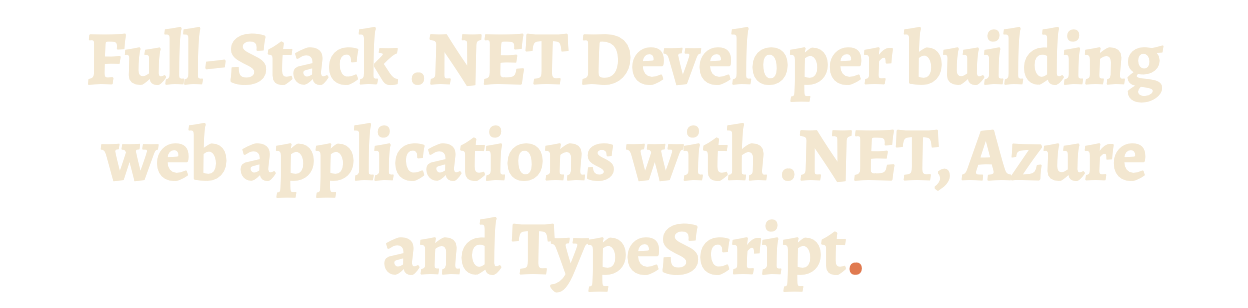
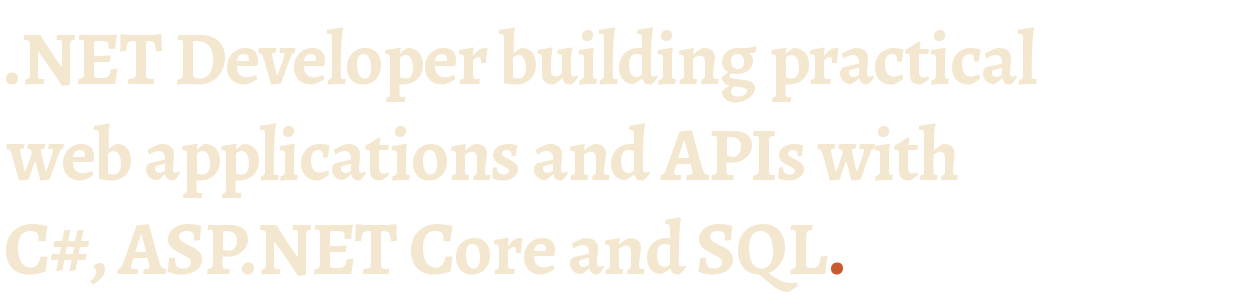
docs: restore the lead artwork with the .NET Developer title
Bring back the typographic lead that opened the profile before 4ee66fe,
rebuilt as a real SVG (Alegreya 700, same ink and terracotta full stop),
with only the title changed from Full-Stack .NET Developer to .NET
Developer. The PNG exports are refreshed to the same wording.

Changed region(s): [[0.0, 0.0877, 0.9375, 0.3506], [0.0, 0.4091, 0.9375, 0.6429], [0.0, 0.7013, 0.6875, 0.9643]]

diff --git a/README.md b/README.md
@@ -7,8 +7,10 @@
 
 [**Website**](https://danieldias.dev/en) · [**Blog**](https://danieldias.dev/en/blog) · [**LinkedIn**](https://www.linkedin.com/in/daniel-dias-504168113/) · [**Email**](mailto:daanspfc@gmail.com)
 
-<h3>Software Developer</h3>
-<p>Backend development with .NET, C#, ASP.NET Core and SQL.</p>
+<picture>
+  <source media="(prefers-color-scheme: dark)" srcset="assets/lead-dark.svg">
+  <img src="assets/lead-light.svg" alt=".NET Developer building practical web applications and APIs with C#, ASP.NET Core and SQL." width="620">
+</picture>
 
 </div>
 
